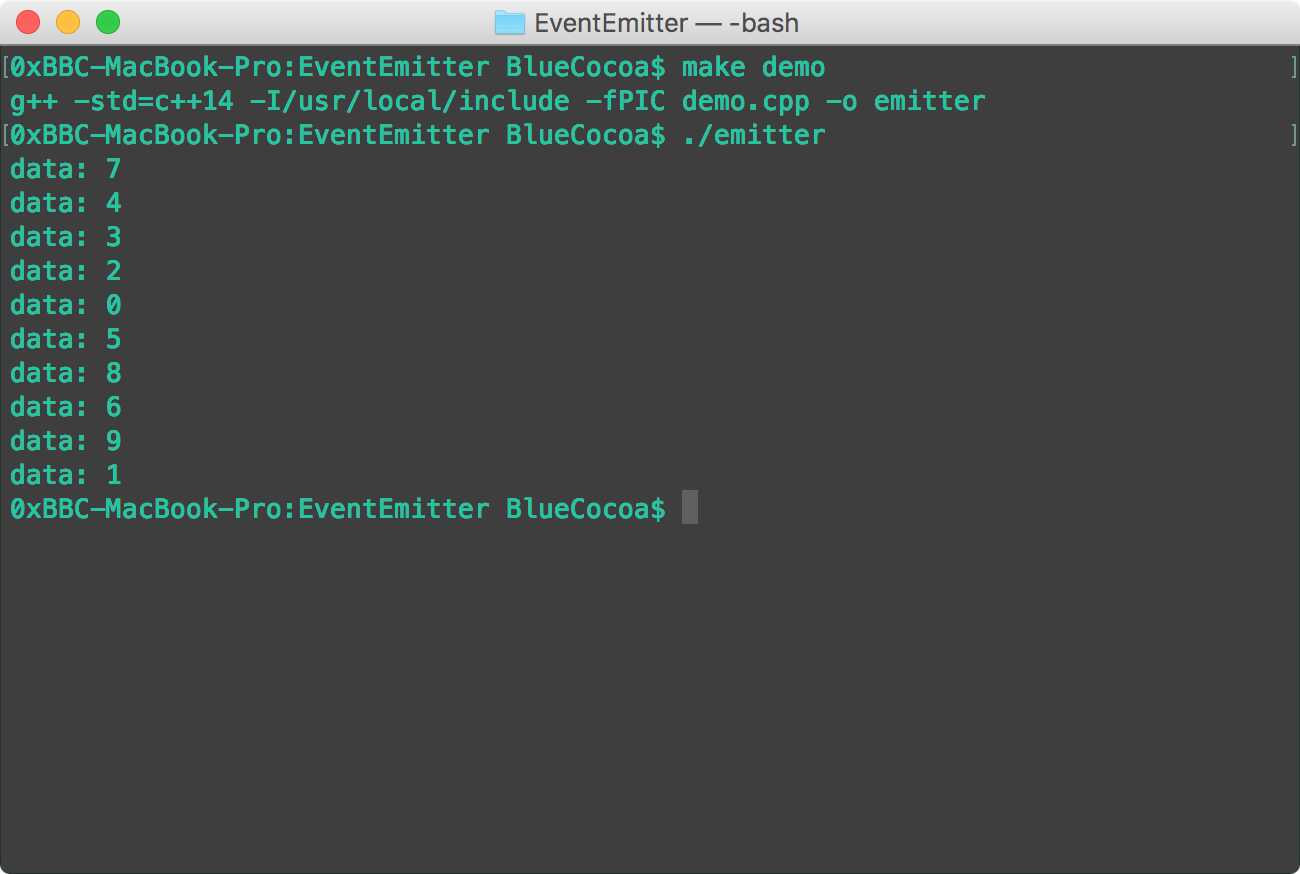
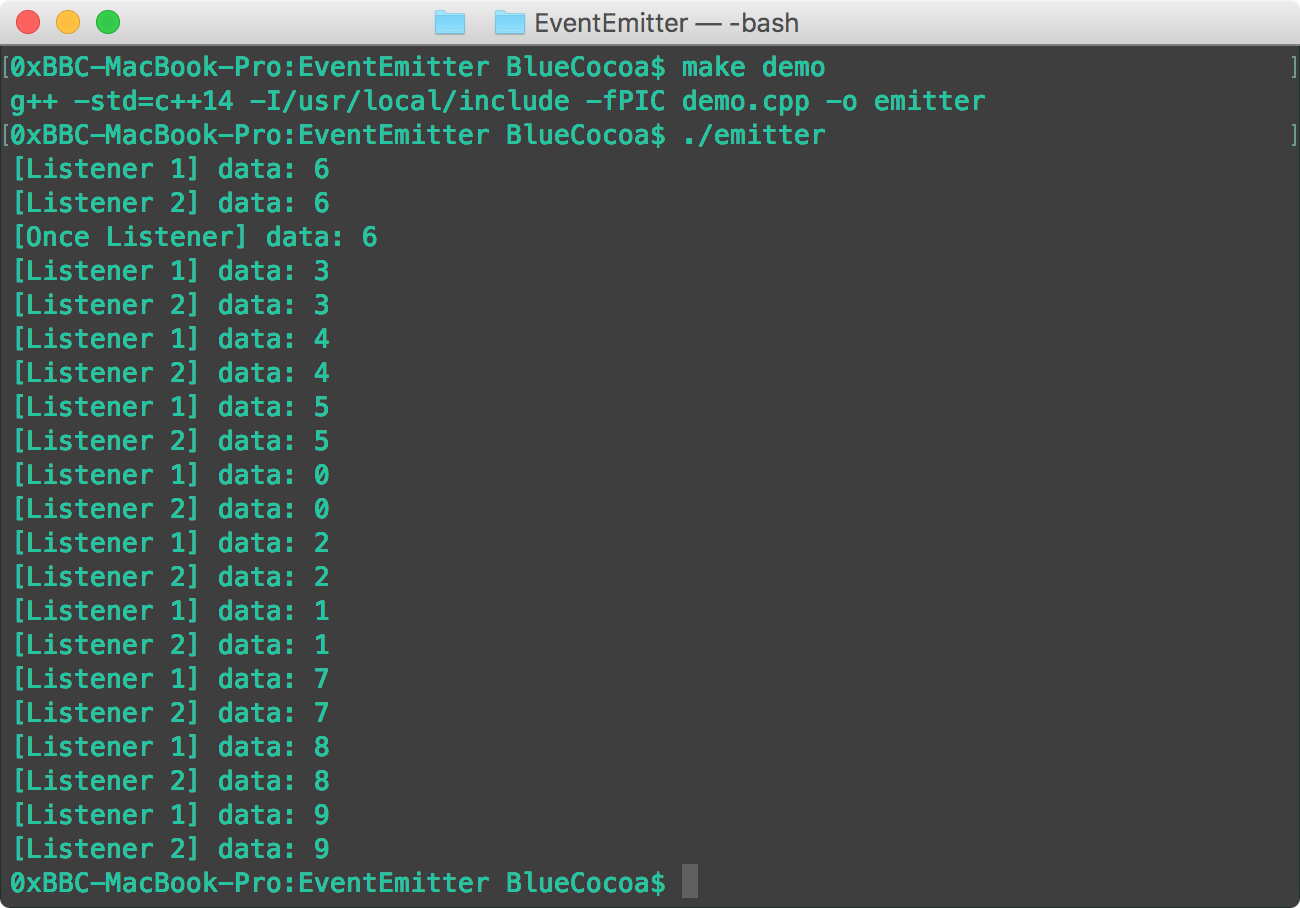
Support once event

Changed region(s): [[0.0, 0.0, 1.0, 0.9886]]

diff --git a/EventEmitter.hpp b/EventEmitter.hpp
@@ -10,17 +10,31 @@
 #define EVENTEMITTER_HPP
 
 #include <map>
+#include <mutex>
 #include <string>
+#include <tuple>
+#include <type_traits>
+#include <vector>
 #include <Functor.hpp>
 
 class EventEmitter {
 public:
     /**
+     *  @brief EventListener
+     *
+     *  @note  Callable Function, Call once
+     */
+    using EventListener = std::tuple<Functor *, bool>;
+    
+    /**
      *  @brief Deconstructor
      */
     ~EventEmitter() {
-        std::for_each(events.begin(), events.end(), [](std::pair<std::string, Functor *> pair) {
-            delete pair.second;
+        std::for_each(events.begin(), events.end(), [](std::pair<std::string, std::vector<EventListener>> pair) {
+            std::vector<EventListener>& listeners = pair.second;
+            std::for_each(listeners.begin(), listeners.end(), [](EventListener& listener) {
+                delete std::get<0>(listener);
+            });
         });
         events.clear();
     }
@@ -33,7 +47,20 @@ public:
      */
     template <typename Function>
     void on(const std::string& event, Function&& lambda) {
-        events[event] = new Functor{std::forward<Function>(lambda)};
+        std::unique_lock<std::mutex> locker(_events_mtx);
+        events[event].emplace_back(new Functor{std::forward<Function>(lambda)}, false);
+    }
+    
+    /**
+     *  @brief Once event
+     *
+     *  @param event  Event name
+     *  @param lambda Callback function when event emitted
+     */
+    template <typename Function>
+    void once(const std::string& event, Function&& lambda) {
+        std::unique_lock<std::mutex> locker(_events_mtx);
+        events[event].emplace_back(new Functor{std::forward<Function>(lambda)}, true);
     }
     
     /**
@@ -43,14 +70,25 @@ public:
      */
     template <typename ... Arg>
     void emit(const std::string& event, Arg&& ... args) {
-        Functor * on = events[event];
-        if (on) (*on)(std::forward<Arg>(args)...);
+        std::unique_lock<std::mutex> locker(_events_mtx);
+        std::vector<EventListener>& listeners = events[event];
+        std::vector<std::vector<EventListener>::iterator> once_listener;
+        for (auto listener = listeners.begin(); listener != listeners.end(); listener++) {
+            Functor * on = std::get<0>(*listener);
+            bool once = std::get<1>(*listener);
+            if (on) {
+                (*on) (std::forward<Arg>(args)...);
+                if (once) {
+                    delete on;
+                    std::get<0>(*listener) = nullptr;
+                    once_listener.emplace_back(listener);
+                }
+            }
+        }
+        std::for_each(once_listener.begin(), once_listener.end(), [&listeners](auto &iterator) {
+            listeners.erase(iterator);
+        });
     }
-    
-    /**
-     *  @brief Event name - Callback function
-     */
-    std::map<std::string, Functor *> events;
 
 protected:
     /**
@@ -58,6 +96,17 @@ protected:
      */
     EventEmitter() {
     };
+    
+    /**
+     *  @brief Event name - EventListener
+     */
+    std::map<std::string, std::vector<EventListener>> events;
+    
+private:
+    /**
+     *  @brief Mutex for events
+     */
+    std::mutex _events_mtx;
 };
 
 #endif /* EVENTEMITTER_HPP */

diff --git a/demo.cpp b/demo.cpp
@@ -21,7 +21,17 @@ int main(int argc, const char * argv[]) {
     emitter emitter;
     emitter.on("event", [&emitter](int data) {
         ostringstream osstream;
-        osstream << "data: " << data << '\n';
+        osstream << "[Listener 1] data: " << data << '\n';
+        std::cout<<osstream.str();
+    });
+    emitter.on("event", [&emitter](int data) {
+        ostringstream osstream;
+        osstream << "[Listener 2] data: " << data << '\n';
+        std::cout<<osstream.str();
+    });
+    emitter.once("event", [&emitter](int data) {
+        ostringstream osstream;
+        osstream << "[Once Listener] data: " << data << '\n';
         std::cout<<osstream.str();
     });
     
